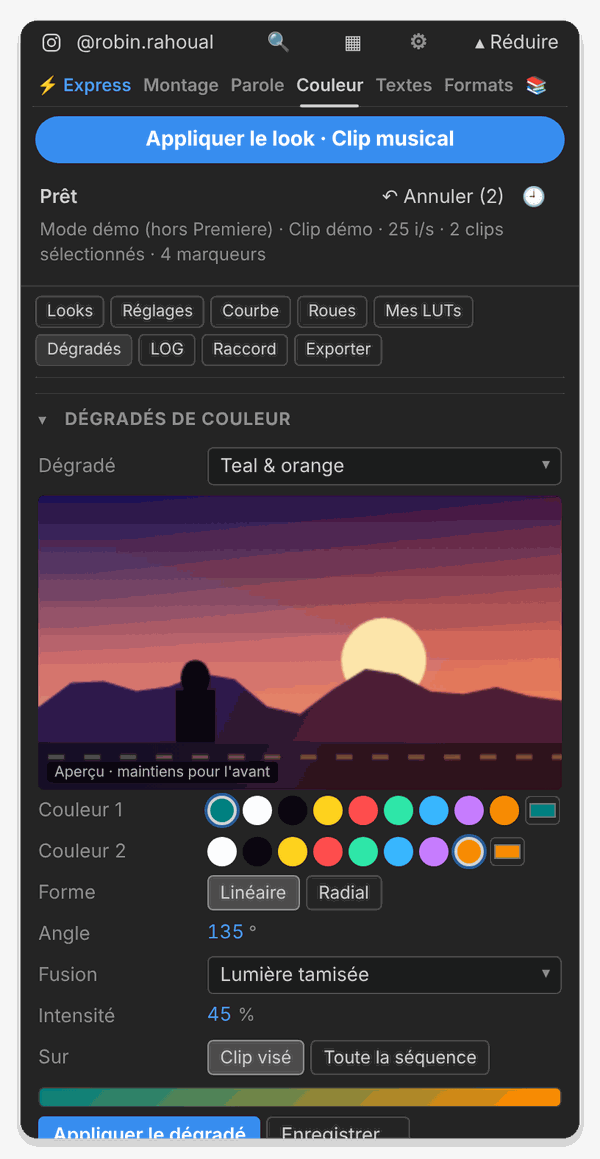
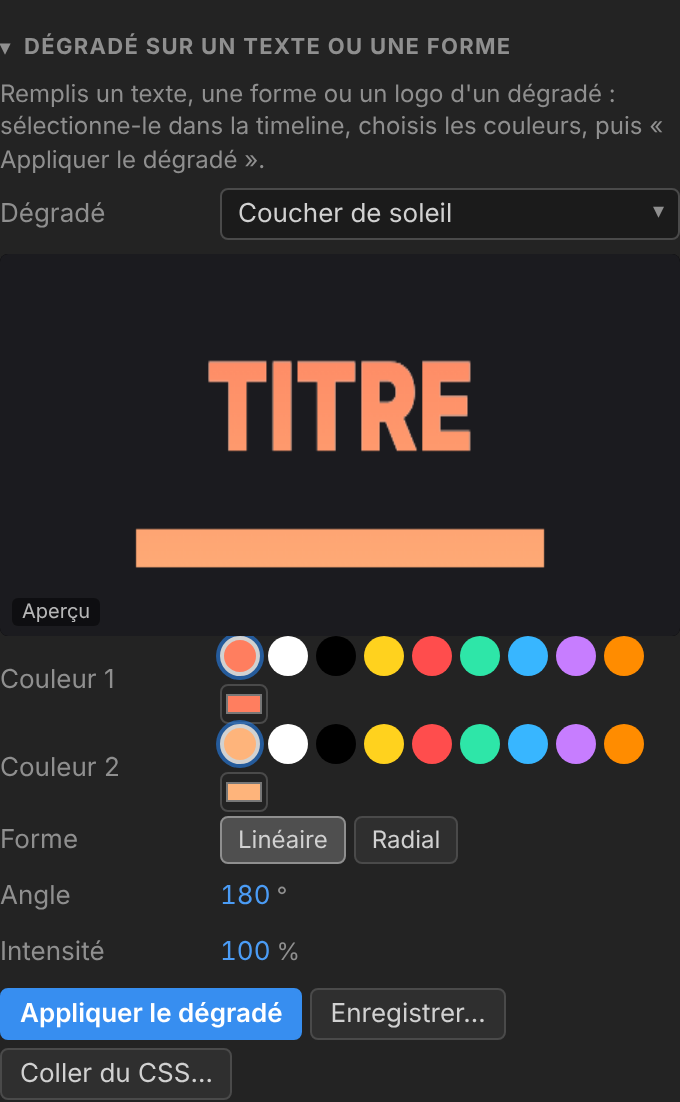
2.11.1 : dégradés sur les textes et formes (onglet Textes), plus dans l'onglet Couleur
- Dégradé posé avec l'effet Dégradé de Premiere directement sur le texte, la forme ou le logo
  sélectionné (resolve strict : pas le clip sous la tête de lecture) ; intensité = 100 - mélange avec
  l'original ; aperçu sur un titre. Anciens réglages (fusion, 45 %) repris à 100 %.
- Retiré de l'onglet Couleur (sommaire, fenêtres, espaces de travail).
- ui-smoke : dégradé dans Textes, sélection vide simulée côté Premiere pour la couleur verrouillée.
- Test hôte (resolve strict), traductions, guide, README (capture), checklist, notes de version.

Claude-Session: https://claude.ai/code/session_01ATcuqTLBeiqTwCozV4SkRe

diff --git a/plugin/js/degrades.js b/plugin/js/degrades.js
@@ -1,111 +1,109 @@
-/* RR FX : dégradés de couleur (onglet Couleur). Un dégradé (2 couleurs, angle, linéaire ou
-   radial) fondu sur l'image avec un mode de fusion : ciel plus orangé, teinte de marque, vignette
-   chaude… Posé sur un calque de réglage (effet Dégradé de Premiere + mode de fusion de
-   l'Opacité), sur le clip visé ou toute la séquence. Dégradés fournis, les tiens dans Mes effets,
-   import d'un dégradé CSS (copié d'un site comme uiGradients, CSS Gradient…). */
+/* RR FX : dégradés sur les textes, formes et logos (onglet Textes). Un dégradé (2 couleurs, angle,
+   linéaire ou radial) posé avec l'effet Dégradé de Premiere directement sur l'élément sélectionné :
+   il ne remplit que ses pixels. Dégradés fournis, les tiens dans Mes effets, import d'un dégradé
+   CSS (copié d'un site comme uiGradients, CSS Gradient…). */
 (function (root) {
   'use strict';
   const _T = (typeof self !== 'undefined' && self._T) || (s => s);
 
   (root.RRFXFeatures = root.RRFXFeatures || []).push(function (app) {
-    const C = root.RRFXCouleurs, { Host, Pv } = app;
+    const C = root.RRFXCouleurs, { Host } = app;
     const { h, hotText, actionGroup, picker, row } = app.UI;
-    // Modes de fusion (valeur de Premiere, nom, équivalent canvas pour l'aperçu).
-    const BLENDS = [
-      { v: 13, label: _T('Lumière tamisée'), css: 'soft-light' }, { v: 12, label: _T('Incrustation'), css: 'overlay' },
-      { v: 3, label: _T('Produit'), css: 'multiply' }, { v: 8, label: _T('Écran'), css: 'screen' }, { v: 0, label: 'Normal', css: 'source-over' }
-    ];
     const RAMP_NAMES = ['Ramp', 'Dégradé', 'Verlauf', 'Rampa', 'Gradiente'];
 
     const st = () => {
       const s = app.settings();
       if (!s.gradient || typeof s.gradient !== 'object') s.gradient = {};
-      const d = { g: C.GRADIENTS[0].g, preset: C.GRADIENTS[0].id, blend: 13, opacity: 45, target: 'clip' };
+      // Avant la 2.11.1, le dégradé se fondait sur l'image (mode de fusion, 45 %) : sur un texte, plein.
+      if ('blend' in s.gradient) { delete s.gradient.blend; delete s.gradient.target; s.gradient.opacity = 100; }
+      const d = { g: C.GRADIENTS[0].g, preset: C.GRADIENTS[0].id, opacity: 100 };
       Object.keys(d).forEach(k => { if (!(k in s.gradient)) s.gradient[k] = JSON.parse(JSON.stringify(d[k])); });
       return s.gradient;
     };
     const userGradients = () => app.S.lib.items.filter(i => i.type === 'gradient');
 
-    // Aperçu : le plan de test (ou ta vraie image), le dégradé fondu par-dessus.
-    function draw(cv, x, before) {
+    // Aperçu : un titre rempli du dégradé, sur fond sombre (comme dans Premiere sur un texte).
+    function draw(cv, x) {
       const g = cv.getContext('2d'), W = cv.width, H = cv.height, gr = x.g;
-      g.globalCompositeOperation = 'source-over';
-      g.globalAlpha = 1;
-      g.drawImage(Pv.shots()[Pv.isReal() ? 'B' : 'A'], 0, 0, W, H);
-      if (before) return;
+      g.fillStyle = '#1b1b1f';
+      g.fillRect(0, 0, W, H);
       const r = C.rampOf(gr);
       let fill;
-      if (gr.type === 'radial') { fill = g.createRadialGradient(W / 2, H / 2, 0, W / 2, H / 2, Math.hypot(W, H) / 2); } else fill = g.createLinearGradient(r.start[0] * W, r.start[1] * H, r.end[0] * W, r.end[1] * H);
+      if (gr.type === 'radial') fill = g.createRadialGradient(W / 2, H / 2, 0, W / 2, H / 2, Math.hypot(W, H) / 2);
+      else fill = g.createLinearGradient(r.start[0] * W, r.start[1] * H, r.end[0] * W, r.end[1] * H);
       fill.addColorStop(0, gr.colors[0]);
       fill.addColorStop(1, gr.colors[gr.colors.length - 1]);
-      g.globalCompositeOperation = (BLENDS.find(b => b.v === x.blend) || BLENDS[0]).css;
+      g.textAlign = 'center';
+      g.textBaseline = 'middle';
+      g.font = '900 ' + Math.round(H * 0.32) + 'px system-ui, sans-serif';
+      // Intensité : le dégradé mélangé à la couleur d'origine du texte (blanc).
+      g.fillStyle = '#ffffff';
+      g.fillText(_T('TITRE'), W / 2, H * 0.42);
       g.globalAlpha = x.opacity / 100;
       g.fillStyle = fill;
-      g.fillRect(0, 0, W, H);
-      g.globalCompositeOperation = 'source-over';
+      g.fillText(_T('TITRE'), W / 2, H * 0.42);
       g.globalAlpha = 1;
+      g.fillStyle = fill;
+      g.fillRect(W * 0.2, H * 0.72, W * 0.6, H * 0.1);
     }
 
-    // Effets du calque : Dégradé (couleurs, points, forme) puis Opacité (quantité, mode de fusion).
+    // Effet Dégradé de Premiere posé sur le texte ou la forme : il remplit seulement ses pixels.
+    // « Mélange avec l'original » = 100 - intensité.
     function fxOf(x) {
       const r = C.rampOf(x.g);
       return [
         { type: 'ramp', names: RAMP_NAMES, matchName: 'AE.ADBE Ramp', props: [
           { key: 'start', index: 0, point: true, static: r.start }, { key: 'startColor', index: 1, color: true, static: r.startColor },
           { key: 'end', index: 2, point: true, static: r.end }, { key: 'endColor', index: 3, color: true, static: r.endColor },
-          { key: 'shape', index: 4, static: r.shape }, { key: 'blend', index: 6, static: 0 }] },
-        { type: 'opacity', names: [], matchName: 'AE.ADBE Opacity', intrinsic: 'opacity', props: [{ key: 'opacity', index: 0, static: x.opacity }, { key: 'blend', index: 1, static: x.blend }] }
+          { key: 'shape', index: 4, static: r.shape }, { key: 'blend', index: 6, static: Math.max(0, Math.min(100, 100 - x.opacity)) }] }
       ];
     }
 
     function apply() {
       const x = st();
-      return app.runTask(_T('Dégradé de couleur'), async () => {
+      return app.runTask(_T('Dégradé'), async () => {
+        const r = await Host.call('resolve', { placement: 'full', strict: true, sides: ['post'], frames: 1, target: 'clip' });
+        if (!r.ok) return { kind: 'warn', title: _T('Aucun texte sélectionné'), detail: _T('Sélectionne un texte, une forme ou un logo dans la timeline, puis recommence.') };
         const names = await Host.call('listEffects', { filter: 'ramp|grad|verlauf|rampa' });
         const fx = fxOf(x);
         if (names.ok && names.names.length) fx[0].names = names.names.filter(n => !/4|quatre|vier|cuatro|quattro/i.test(n)).concat(RAMP_NAMES);
-        const { res, fail } = await app.services.adjustmentLayer('RR FX · Dégradé', fx, { scope: x.target });
-        if (fail) return fail;
-        return { kind: res.kind, title: _T('Dégradé posé'), detail: _T('Calque de réglage « RR FX · Dégradé » (effet Dégradé + mode de fusion), réglable dans Options d\'effet.') };
+        const res = await Host.call('apply', { target: 'clip', name: 'RR FX · Dégradé', targets: r.targets.map(t => Object.assign({}, t, { name: 'RR FX · Dégradé', fx })) });
+        if (!res.ok) return { kind: 'error', title: _T('Dégradé non posé'), detail: res.error };
+        if (res.created && res.created.length) app.pushHistory({ date: Date.now(), label: _T('Dégradé'), entries: res.created });
+        (res.warnings || []).forEach(w => app.log(w, 'warn'));
+        return { kind: res.warnings && res.warnings.length ? 'warn' : 'ok', title: _T('Dégradé posé') + ' · ' + app.plural(r.targets.length, _T('élément'), _T('éléments')), detail: _T('Effet Dégradé sur le texte ou la forme : points et couleurs réglables dans Options d\'effet.') };
       });
     }
 
-    function panel(makePanel) {
+    function render() {
       const box = h('div');
       const refresh = () => {
         const x = st();
         box.innerHTML = '';
-        const cv = h('canvas', { class: 'pv-canvas', width: 480, height: 270 });
+        const cv = h('canvas', { class: 'pv-canvas', width: 480, height: 200 });
         const redraw = () => draw(cv, x);
         const opts = C.GRADIENTS.map(p => ({ v: 'b:' + p.id, label: p.name })).concat(userGradients().map(i => ({ v: 'u:' + i.id, label: '★ ' + i.name })));
         if (x.preset === 'custom') opts.unshift({ v: 'custom', label: _T('Mon réglage') });
+        box.appendChild(h('div', { class: 'note' }, _T('Remplis un texte, une forme ou un logo d\'un dégradé : sélectionne-le dans la timeline, choisis les couleurs, puis « Appliquer le dégradé ».')));
         box.appendChild(row(_T('Dégradé'), picker(opts, x.preset.indexOf(':') > 0 || x.preset === 'custom' ? x.preset : 'b:' + x.preset, v => {
           const p = v.indexOf('b:') === 0 ? C.GRADIENTS.find(q => 'b:' + q.id === v) : null, u = v.indexOf('u:') === 0 ? app.S.lib.items.find(i => 'u:' + i.id === v) : null;
           if (p) x.g = JSON.parse(JSON.stringify(p.g)); else if (u) x.g = JSON.parse(JSON.stringify(u.data.g));
           x.preset = v; app.persist(); refresh();
         })));
-        const swatch = h('div', { class: 'grad-swatch', style: { background: C.gradientCss(x.g) } });
-        // Maintenir le clic sur l'aperçu : l'image sans le dégradé.
-        const frame = h('div', { class: 'pv-frame', title: _T('Maintiens le clic pour voir l\'avant') }, cv, h('span', { class: 'pv-label' }, _T('Aperçu · maintiens pour l\'avant')));
-        frame.addEventListener('pointerdown', () => draw(cv, x, true));
-        ['pointerup', 'pointerleave'].forEach(ev => frame.addEventListener(ev, redraw));
-        box.appendChild(h('div', { class: 'preview' }, frame));
-        const custom = () => { x.preset = 'custom'; swatch.style.background = C.gradientCss(x.g); app.persist(); redraw(); };
+        box.appendChild(h('div', { class: 'preview' }, h('div', { class: 'pv-frame' }, cv, h('span', { class: 'pv-label' }, _T('Aperçu')))));
+        const custom = () => { x.preset = 'custom'; app.persist(); redraw(); };
         box.appendChild(row(_T('Couleur 1'), app.services.colorPick(x.g.colors[0], v => { x.g.colors[0] = v || '#ffffff'; custom(); })));
         box.appendChild(row(_T('Couleur 2'), app.services.colorPick(x.g.colors[x.g.colors.length - 1], v => { x.g.colors[x.g.colors.length - 1] = v || '#000000'; custom(); })));
         box.appendChild(row(_T('Forme'), actionGroup([{ v: 'linear', label: _T('Linéaire') }, { v: 'radial', label: 'Radial' }], x.g.type, v => { x.g.type = v; custom(); })));
         box.appendChild(row('Angle', hotText({ value: x.g.angle, min: 0, max: 359, step: 5, unit: '°', onChange: v => { x.g.angle = v; custom(); } })));
-        box.appendChild(row(_T('Fusion'), picker(BLENDS.map(b => ({ v: String(b.v), label: b.label })), String(x.blend), v => { x.blend = +v; app.persist(); redraw(); })));
         box.appendChild(row(_T('Intensité'), hotText({ value: x.opacity, min: 0, max: 100, step: 5, unit: '%', onChange: v => { x.opacity = v; app.persist(); redraw(); } })));
-        box.appendChild(row(_T('Sur'), actionGroup([{ v: 'clip', label: _T('Clip visé') }, { v: 'sequence', label: _T('Toute la séquence') }], x.target, v => { x.target = v; app.persist(); })));
-        box.appendChild(swatch);
         const go = h('button', { class: 'action go' }, _T('Appliquer le dégradé'));
         go.addEventListener('click', apply);
         const save = h('button', { class: 'action' }, _T('Enregistrer…'));
         save.addEventListener('click', async () => {
           const name = await app.promptName(_T('Nom du dégradé'), _T('Mon dégradé'));
           if (!name) return;
-          app.services.addItems([{ type: 'gradient', name, data: { g: JSON.parse(JSON.stringify(x.g)), blend: x.blend, opacity: x.opacity } }]);
+          app.services.addItems([{ type: 'gradient', name, data: { g: JSON.parse(JSON.stringify(x.g)), opacity: x.opacity } }]);
           const it = userGradients().filter(i => i.name === name).pop();
           if (it) x.preset = 'u:' + it.id;
           app.persist(); refresh();
@@ -125,14 +123,16 @@
         requestAnimationFrame(redraw);
       };
       refresh();
-      return makePanel('gradient', _T('Dégradés de couleur'), [box]);
+      return [box];
     }
+
+    app.extras.titles.push({ id: 'degrade', title: _T('Dégradé sur un texte ou une forme'), nav: _T('Dégradé'), tool: [_T('Appliquer le dégradé'), () => apply()], render });
 
     app.itemTypes.gradient = {
       icon: '▤', label: _T('Dégradé'), valid: d => !!d.g && Array.isArray(d.g.colors) && d.g.colors.length >= 2,
       meta: it => it.data.g.colors.join(' → '),
-      open: it => { const x = st(); x.g = JSON.parse(JSON.stringify(it.data.g)); if (it.data.blend != null) x.blend = it.data.blend; if (it.data.opacity != null) x.opacity = it.data.opacity; x.preset = 'u:' + it.id; app.persist(); app.switchTab('color'); }
+      open: it => { const x = st(); x.g = JSON.parse(JSON.stringify(it.data.g)); if (it.data.opacity != null) x.opacity = it.data.opacity; x.preset = 'u:' + it.id; app.persist(); app.switchTab('titles'); }
     };
-    app.gradients = { panel, apply, fxOf };
+    app.gradients = { apply, fxOf };
   });
 })(typeof self !== 'undefined' ? self : this);

diff --git a/plugin/js/i18n-en.js b/plugin/js/i18n-en.js
@@ -609,6 +609,7 @@
       "Aucun temps fort": "No beat",
       "Aucun temps fort trouvé": "No beat found",
       "Aucun texte posé": "No text placed",
+      "Aucun texte sélectionné": "No text selected",
       "Aucun « euh » trouvé": "No \"um\" found",
       "Aucun élément sélectionné": "Nothing selected",
       "Aucun élément valide dans ces fichiers.": "No valid item in these files.",
@@ -1155,8 +1156,10 @@
       "Défocus": "Defocus",
       "Dégradé": "Gradient",
       "Dégradé de couleur": "Color gradient",
+      "Dégradé non posé": "Gradient not applied",
       "Dégradé non reconnu": "Gradient not recognized",
       "Dégradé posé": "Gradient applied",
+      "Dégradé sur un texte ou une forme": "Gradient on a text or shape",
       "Dégradé « ": "Gradient \"",
       "Dégradés": "Gradients",
       "Dégradés de couleur": "Color gradients",
@@ -1193,6 +1196,7 @@
       "E-mail pour MyMemory": "Email for MyMemory",
       "Effacer": "Clear",
       "Effet": "Effect",
+      "Effet Dégradé sur le texte ou la forme : points et couleurs réglables dans Options d'effet.": "Ramp effect on the text or shape: points and colors adjustable in Effect Controls.",
       "Effet Recadrage automatique de Premiere : suit le sujet dans chaque plan": "Premiere's Auto Reframe effect: follows the subject in each shot",
       "Effet Recadrage automatique disponible": "Auto Reframe effect available",
       "Effet au hasard (favoris)": "Random effect (favorites)",
@@ -2414,6 +2418,7 @@
       "Remplacer les sous-titres ?": "Replace the captions?",
       "Remplacer par": "Replace with",
       "Remplir, centré": "Fill, centered",
+      "Remplis un texte, une forme ou un logo d'un dégradé : sélectionne-le dans la timeline, choisis les couleurs, puis « Appliquer le dégradé ».": "Fill a text, a shape or a logo with a gradient: select it in the timeline, pick the colors, then \"Apply gradient\".",
       "Rendu": "Contrast",
       "Renommage en série": "Batch rename",
       "Renommage × ": "Rename × ",
@@ -2699,6 +2704,7 @@
       "Sélectionne un plan ou un calque de réglage dans la timeline pour régler sa couleur.": "Select a clip or an adjustment layer in the timeline to grade it.",
       "Sélectionne un plan vidéo": "Select a video clip",
       "Sélectionne un plan, entoure l'objet ou la personne sur la première image : SAM 2 (Meta) le suit dans tout le plan. Pour flouter un visage, une plaque ou un logo, flouter tout le reste, ou isoler l'objet.": "Select a clip, outline the object or person on the first frame: SAM 2 (Meta) follows it through the whole clip. To blur a face, a licence plate or a logo, blur everything else, or isolate the object.",
+      "Sélectionne un texte, une forme ou un logo dans la timeline, puis recommence.": "Select a text, a shape or a logo in the timeline, then try again.",
       "Sélectionne-les dans la timeline (sinon la coupe des silences est passée)": "Select them in the timeline (otherwise silence cutting is skipped)",
       "Séparation (Demucs, quelques minutes)": "Separating (Demucs, a few minutes)",
       "Séparations": "Splits",
@@ -2713,6 +2719,7 @@
       "Séquence vide": "Empty sequence",
       "Séquence vide aux bons réglages": "Empty sequence with the right settings",
       "Séquences": "Sequences",
+      "TITRE": "TITLE",
       "Ta bibliothèque est vide : enregistre un preset ou capture un effet.": "Your library is empty: save a preset or capture an effect.",
       "Ta musique est plus longue que ta vidéo ? RR FX retire un passage au milieu, entre deux temps forts (des mesures entières si possible) : le morceau garde son intro et sa vraie fin, qui tombe avec la dernière image.": "Is your music longer than your video? RR FX removes a section in the middle, between two beats (whole bars if possible): the track keeps its intro and its real ending, which lands on the last frame.",
       "Ta musique est trop longue ? RR FX la raccourcit sur un temps fort pour qu'elle finisse avec la vidéo.": "Music too long? RR FX shortens it on a beat so it ends with the video.",

diff --git a/scripts/ui-smoke.js b/scripts/ui-smoke.js
@@ -389,10 +389,11 @@ const url = 'file://' + path.join(__dirname, '..', 'plugin', 'index.html');
     await page.click('.lr-panel:has-text("Mes LUTs") .action.go:text-is("Appliquer")');
     await page.waitForSelector('#status.warn:has-text("LUT d\'exemple")', { timeout: 5000 });
     await snap('9b-mes-luts');
-    const g = '.lr-panel:has(.lr-title:text-is("Dégradés de couleur"))';
-    // Fermé à la première ouverture : le sommaire l'ouvre et l'amène en vue.
-    await page.click('.view.on .sec-nav .action:text-is("Dégradés")');
-    await page.waitForSelector(g + ':not(.closed)', { timeout: 2000 });
+    // Dégradés : onglet Textes, sur le texte ou la forme sélectionné.
+    await goTab('titles');
+    const g = '#view-titles [data-sec=degrade]';
+    await page.waitForSelector(g);
+    await page.evaluate(sel => { const t = document.querySelector(sel); if (t.classList.contains('folded')) t.querySelector('.section-title').click(); }, g);
     await page.click(g + ' .action:text-is("Coller du CSS…")');
     await page.fill('.modal textarea', 'linear-gradient(to right, #ff7e5f, #feb47b)');
     await page.click('.modal .cta');
@@ -666,9 +667,9 @@ const url = 'file://' + path.join(__dirname, '..', 'plugin', 'index.html');
     await page.waitForSelector('.tab.on[data-tab=color]');
     // Les outils sans onglet à eux sont amenés en vue (et ouverts).
     await page.keyboard.press('Control+k');
-    await page.fill('.pal-input', 'dégradé de couleur');
+    await page.fill('.pal-input', 'dégradé sur un texte');
     await page.keyboard.press('Enter');
-    await page.waitForSelector('.view.on [data-panel=gradient]:not(.closed)', { timeout: 2000 });
+    await page.waitForSelector('.view.on [data-sec=degrade]:not(.folded)', { timeout: 2000 });
     await page.keyboard.press('Control+k');
     await page.fill('.pal-input', 'depuis un lien');
     await page.keyboard.press('Enter');
@@ -746,13 +747,20 @@ const url = 'file://' + path.join(__dirname, '..', 'plugin', 'index.html');
     await page.waitForSelector('#view-color [data-panel=basic]');
     const locked = () => page.evaluate(() => !!document.querySelector('#view-color [data-panel=basic].lr-locked'));
     if (await locked()) throw new Error('verrouillé alors que des plans sont sélectionnés');
-    await page.evaluate(() => { const A = window.RRFXApp; A.S.ctx = Object.assign({}, A.S.ctx, { selection: 0 }); A.contextListeners.forEach(f => f(A.S.ctx)); });
+    // Premiere répond « aucun plan sélectionné » (la sélection est relue toutes les 2 s).
+    await page.evaluate(() => {
+      const H = window.RRFXHost, A = window.RRFXApp;
+      H._call = H.call;
+      H.call = (fn, a) => (fn === 'getContext' ? H._call(fn, a).then(r => Object.assign(r, { selection: 0 })) : H._call(fn, a));
+      A.S.ctx = Object.assign({}, A.S.ctx, { selection: 0 });
+      A.contextListeners.forEach(f => f(A.S.ctx));
+    });
     if (!(await locked())) throw new Error('pas verrouillé sans sélection');
     if (!(await page.isVisible('.lr-lock-note'))) throw new Error('message absent');
     if (!(await page.isDisabled('#cta'))) throw new Error('bouton Appliquer actif');
     await page.click('.lr-lock-note .action');
     if (await locked()) throw new Error('« Toute la séquence » ne déverrouille pas');
-    await page.evaluate(() => { const A = window.RRFXApp; A.settings().color.target = 'clip'; A.S.ctx = Object.assign({}, A.S.ctx, { selection: 2 }); A.persist(); });
+    await page.evaluate(() => { const H = window.RRFXHost, A = window.RRFXApp; H.call = H._call; A.settings().color.target = 'clip'; A.S.ctx = Object.assign({}, A.S.ctx, { selection: 2 }); A.persist(); });
   });
   await step('2.11 : outils gratuits, cases à cocher', async () => {
     await goTab('settings');

diff --git a/plugin/js/fenetres.js b/plugin/js/fenetres.js
@@ -45,7 +45,7 @@
   const SECTIONS = {
     music: [['musique', 'Musique'], ['tempsforts', 'Temps forts'], ['montageauto', 'Montage auto sur le rythme'], ['synchro', 'Synchroniser le son et l\'image'], ['volume', 'Volume et intensité']],
     speech: [['silences', 'Couper les silences'], ['euh', '« Euh » et répétitions'], ['visage', 'Zoom visage'], ['soustitres', 'Sous-titres'], ['bandeau', 'Bandeau nom et fonction'], ['voix', 'Son de la voix'], ['musique', 'Musique sous la voix'], ['chapitres', 'Chapitres YouTube']],
-    color: [['looks', 'Looks'], ['basic', 'Réglages de base'], ['curve', 'Courbe des tonalités'], ['mixer', 'Mélangeur de couleurs'], ['grading', 'Étalonnage des couleurs'], ['calib', 'Calibrage'], ['out', 'Appliquer et exporter'], ['log', 'Conversion LOG → Rec.709'], ['fix', 'Expo, balance et raccord'], ['luts', 'Mes LUTs'], ['gradient', 'Dégradés de couleur']],
+    color: [['looks', 'Looks'], ['basic', 'Réglages de base'], ['curve', 'Courbe des tonalités'], ['mixer', 'Mélangeur de couleurs'], ['grading', 'Étalonnage des couleurs'], ['calib', 'Calibrage'], ['out', 'Appliquer et exporter'], ['log', 'Conversion LOG → Rec.709'], ['fix', 'Expo, balance et raccord'], ['luts', 'Mes LUTs']],
     titles: [['modele', 'Modèle de texte'], ['texte', 'Texte et paroles'], ['placement', 'Placement'], ['style', 'Style du texte'], ['animation', 'Animation'], ['couleurs', 'Mes couleurs']],
     formats: [['format', 'Format'], ['cadrage', 'Cadrage']],
     assets: [['lien', 'Importer depuis un lien'], ['dossiers', 'Dossiers liés'], ['parcourir', 'Parcourir']]
@@ -76,7 +76,7 @@
       tabs: ['express', 'effects', 'music', 'native', 'speech', 'color', 'titles', 'formats', 'assets', 'settings'],
       sections: {
         speech: ['transcrire', 'silences', 'euh', 'visage', 'soustitres', 'correcteur', 'traduire', 'broll', 'texte', 'publier'],
-        color: ['looks', 'basic', 'out', 'luts', 'gradient'],
+        color: ['looks', 'basic', 'out', 'luts'],
         formats: ['format', 'cadrage', 'extraits', 'verif', 'rythme', 'export']
       } },
     { id: 'clip', label: 'Clip et événement', desc: 'Musique, effets, rampes, couleur : clips, aftermovies, mariages.',

diff --git a/plugin/js/couleur.js b/plugin/js/couleur.js
@@ -549,7 +549,7 @@
     }
     app.contextListeners.push(() => { if (app.S.tab === 'color') applyLock(); });
 
-    const NAV = [['looks', 'Looks'], ['basic', _T('Réglages')], ['curve', _T('Courbe')], ['grading', _T('Roues')], ['luts', _T('Mes LUTs')], ['gradient', _T('Dégradés')], ['log', 'LOG'], ['fix', _T('Raccord')], ['out', _T('Exporter')]];
+    const NAV = [['looks', 'Looks'], ['basic', _T('Réglages')], ['curve', _T('Courbe')], ['grading', _T('Roues')], ['luts', _T('Mes LUTs')], ['log', 'LOG'], ['fix', _T('Raccord')], ['out', _T('Exporter')]];
     function render(view) {
       if (view) V.view = view;
       view = V.view;
@@ -591,7 +591,6 @@
       if (app.conversion) view.appendChild(app.conversion.panel(panel, () => { V.src = null; update(true); }));
       if (app.correction) view.appendChild(app.correction.panel(panel));
       if (app.lutLibrary) view.appendChild(app.lutLibrary.panel(panel));
-      if (app.gradients) view.appendChild(app.gradients.panel(panel));
       view.appendChild(looksPanel());
       view.appendChild(basicPanel());
       view.appendChild(curvePanel());

diff --git a/tests/host-211.test.js b/tests/host-211.test.js
@@ -57,3 +57,14 @@ test('adjustment layer missing: imported from the template project, refused if t
   assert.ok(go().ok);
   assert.strictEqual(env.imports.length, 1, 'imported once, then found in the project');
 });
+
+test('resolve strict: only the selected clips (gradient on a text), never the clip under the playhead', () => {
+  const env = setup();
+  const r = env.call('resolve', { placement: 'full', strict: true, sides: ['post'], frames: 1, target: 'clip' });
+  assert.ok(!r.ok, 'nothing selected → refused');
+  env.v[1].setSelected(true);
+  const s = env.call('resolve', { placement: 'full', strict: true, sides: ['post'], frames: 1, target: 'clip' });
+  assert.ok(s.ok, s.error);
+  assert.deepStrictEqual(s.targets.map(t => t.clipStart / env.F), [250]);
+  env.v[1].setSelected(false);
+});

diff --git a/plugin/jsx/host.jsx b/plugin/jsx/host.jsx
@@ -802,7 +802,8 @@ var RRFX = (function () {
             if (!targets.length) return fail(o.scope === 'sequence' ? 'Aucune coupe entre deux plans dans la s\u00e9quence.' : 'S\u00e9lectionnez au moins deux clips qui se suivent sur la m\u00eame piste.');
         } else {
             list = o.scope === 'sequence' ? allVideo(s) : selectedVideo(s);
-            if (!list.length && o.scope !== 'sequence') {
+            // o.strict : seulement les clips selectionnes (pas celui sous la tete de lecture).
+            if (!list.length && o.scope !== 'sequence' && !o.strict) {
                 ref = refClip(s);
                 if (ref) list = [ref];
             }

diff --git a/src/host/02-effets.jsx b/src/host/02-effets.jsx
@@ -145,7 +145,8 @@
             if (!targets.length) return fail(o.scope === 'sequence' ? 'Aucune coupe entre deux plans dans la s\u00e9quence.' : 'S\u00e9lectionnez au moins deux clips qui se suivent sur la m\u00eame piste.');
         } else {
             list = o.scope === 'sequence' ? allVideo(s) : selectedVideo(s);
-            if (!list.length && o.scope !== 'sequence') {
+            // o.strict : seulement les clips selectionnes (pas celui sous la tete de lecture).
+            if (!list.length && o.scope !== 'sequence' && !o.strict) {
                 ref = refClip(s);
                 if (ref) list = [ref];
             }

diff --git a/docs/CHECKLIST-TESTS.md b/docs/CHECKLIST-TESTS.md
@@ -139,7 +139,6 @@ C'est la partie la plus à risque : elle passe par des fonctions de Premiere peu
 - [ ] 🔴 Un look (Clip musical) *Appliquer* : le calque Lumetri ressemble à l'aperçu
 - [ ] Export LUT .cube (relue dans Premiere) et DCTL (relue dans DaVinci Resolve si tu l'as)
 - [ ] Mes LUTs : import d'un dossier, vignettes sur ta vraie image, double-clic pose la LUT
-- [ ] Dégradé de couleur : posé en mode de fusion, réglable
 
 ## 9. Textes
 
@@ -259,6 +258,8 @@ C'est la partie la plus à risque : elle passe par des fonctions de Premiere peu
 - [ ] 🔴 *Réglages › Calques › Choisir un projet modèle…* (un petit projet avec seulement un calque de réglage) ; dans un projet **sans** calque de réglage, *Appliquer* : le calque est importé tout seul, l'effet est posé
 - [ ] 🔴 *Couleur* sans clip sélectionné : réglages grisés, message, bouton *Appliquer* inactif ; sélectionne un plan : tout se réactive (en 2 s)
 - [ ] *Couleur* : *Régler toute la séquence* dans le message déverrouille sans sélection
+- [ ] 🔴 *Textes › Dégradé sur un texte ou une forme* : un texte sélectionné, *Appliquer le dégradé* : seules les lettres prennent le dégradé ; sans sélection : message « Aucun texte sélectionné »
+- [ ] *Couleur* : un plan sélectionné pendant un téléchargement d'outil ou de modèle : les réglages se dégrisent
 - [ ] *Réglages › Outils gratuits* : coche 2 outils (ou *Tout cocher*), *Installer la sélection* : ils s'installent l'un après l'autre, le bilan liste les échecs éventuels ; *Arrêter* au milieu : rien de cassé
 - [ ] *Désinstaller* un outil (fichier, Python, et Ollama lancé) : il repasse à « non installé », ses fichiers ont disparu de Documents/RRFX/Outils
 - [ ] Installateur Windows et Mac : le message final indique le dossier des extensions Adobe ; supprimer ensuite le dossier téléchargé ne retire pas RR FX

diff --git a/.github/release-notes/v2.11.1.md b/.github/release-notes/v2.11.1.md
@@ -4,9 +4,12 @@
 - Si une autre tâche tourne (export, transcription…), un effet glissé ou double-cliqué est posé **dès qu'elle est finie**, au lieu d'être perdu.
 - **Couleur grisée alors qu'un plan est sélectionné** : la sélection de Premiere n'était plus relue pendant une tâche (un téléchargement de modèles, par exemple). Elle l'est maintenant en permanence, et tout de suite quand la souris revient sur le panneau.
 
+- **Dégradés** : ils passent dans l'onglet **Textes** et se posent **sur le texte, la forme ou le logo sélectionné** (effet Dégradé de Premiere, qui ne remplit que ses lettres ou sa forme), au lieu de teinter l'image.
+
 ---
 
 ## 2.11.1 (English): fix
 
+- Gradients moved to the Titles tab: applied on the selected text, shape or logo.
 - Color tab: the Premiere selection is now read even during a task, and right away when the mouse comes back to the panel.
 - Tool installations now run in the background: dragging or double-clicking an effect during an install works. An effect dropped while another task runs is placed when it ends.

diff --git a/README.md b/README.md
@@ -517,7 +517,7 @@ d'étalonnage, calibrage. Des **looks** prêts à l'emploi et un **avant / aprè
 <tr>
 <td align="center"><img src="docs/captures/outils/couleur-roues.png" alt="Roues d'étalonnage" width="250"><br><sub>Roues d'étalonnage</sub></td>
 <td align="center"><img src="docs/captures/outils/couleur-melangeur.png" alt="Mélangeur de couleurs" width="250"><br><sub>Mélangeur de couleurs</sub></td>
-<td align="center"><img src="docs/captures/outils/degrade.png" alt="Dégradé de couleur" width="250"><br><sub>Dégradés de couleur (CSS, Figma…)</sub></td>
+<td align="center"><img src="docs/captures/outils/degrade.png" alt="Dégradé sur un texte" width="250"><br><sub>Dégradé sur un texte ou une forme (CSS, Figma…)</sub></td>
 </tr>
 </table>
 
